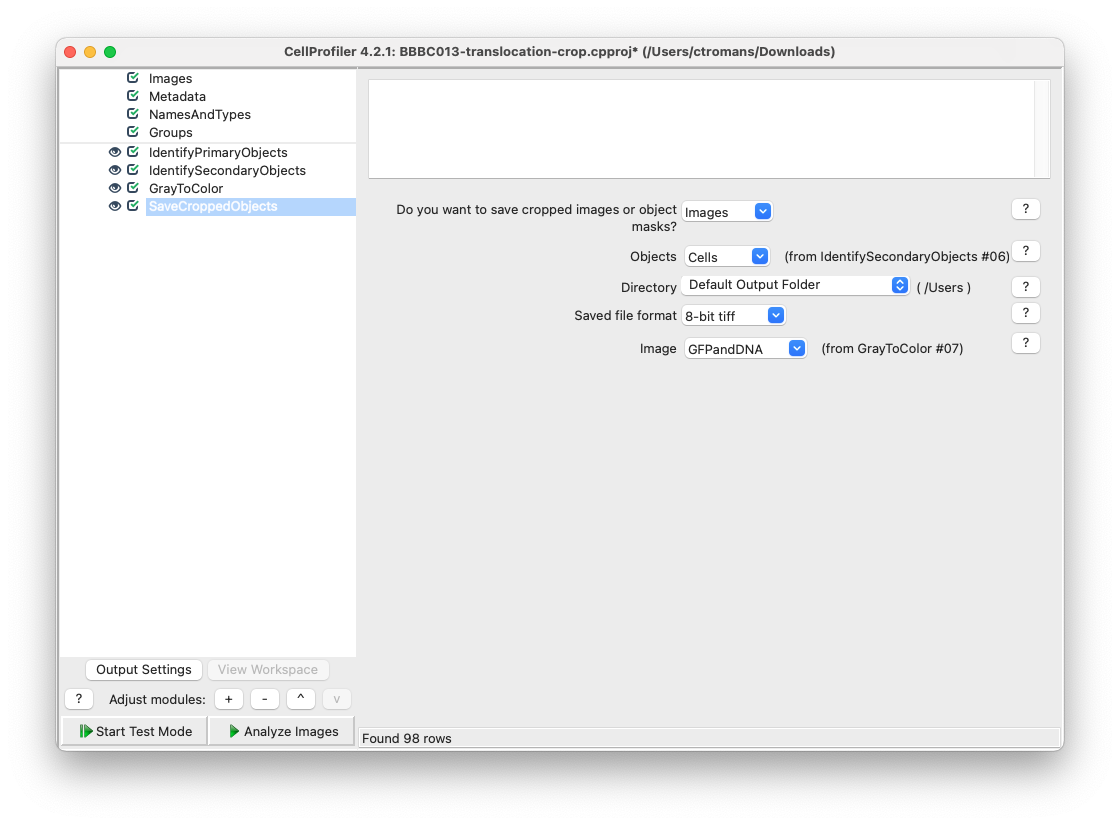
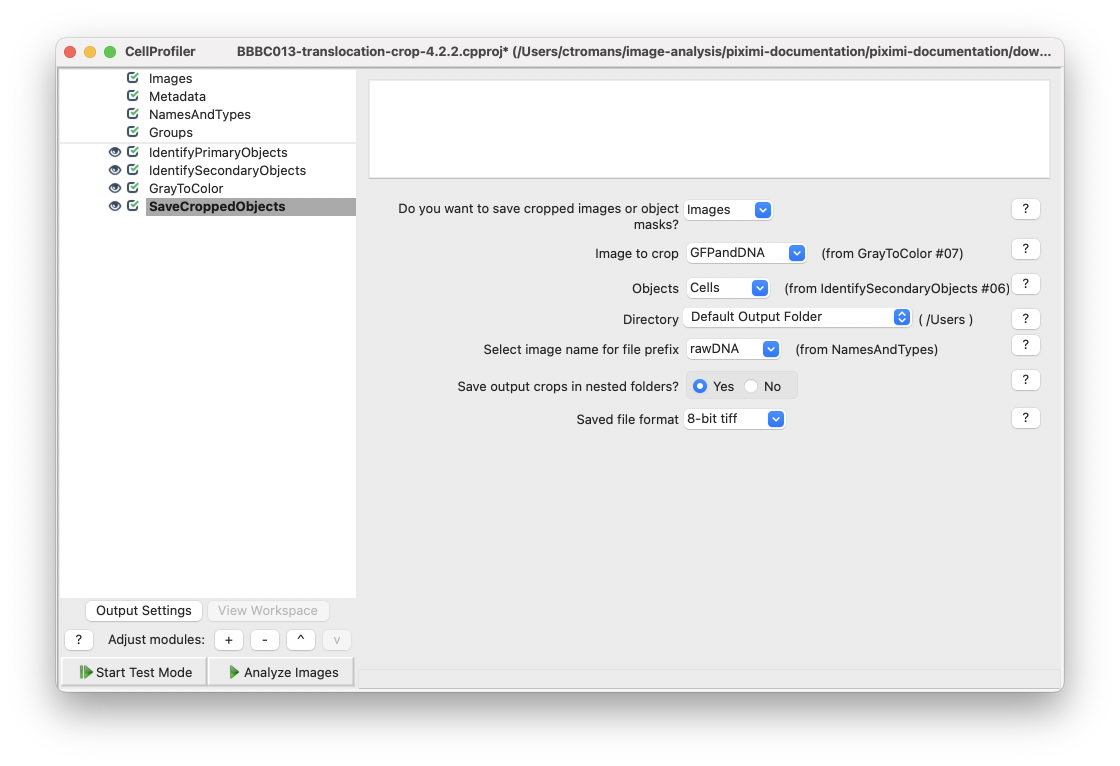
adding cellprofiler crops example to object guide

diff --git a/piximi-documentation/classify-example-eukaryotic-object.md b/piximi-documentation/classify-example-eukaryotic-object.md
@@ -4,8 +4,8 @@ Currently, Piximi can only classify entire images. We are working on adding deep
 
 While we work on adding segmentation, it's currently possible to use CellProfiler to segment individual cells and create single cell cropped images. These images of individual cells can be then be opened in Piximi and then categorized.
 
-The following example will demonstrate how the image crops for the Piximi `U2OS Cell Crops` example project were made using CellProfiler. The images we will use to recreate this dataset are from the [BBBC013 cytoplasm-nucleus translocation dataset](https://bbbc.broadinstitute.org/BBBC013) from the Broad Bioimage Benchmark Collection. Within this dataset, a cytoplasmic GFP signal is considered as positive and a nuclear GFP signal as negative. The CellProfiler pipeline used in the following example can be {download}`downloaded here <downloads/BBBC013-translocation-crop.cppipe.zip>`, but this guide will walk you through how to create the pipeline from scratch. 
-
+The following example will demonstrate how the image crops for the Piximi `U2OS Cell Crops` example project were made using CellProfiler. The images we will use to recreate this dataset are from the [BBBC013 cytoplasm-nucleus translocation dataset](https://bbbc.broadinstitute.org/BBBC013) from the Broad Bioimage Benchmark Collection. Within this dataset, a cytoplasmic GFP signal is considered as positive and a nuclear GFP signal as negative. The CellProfiler pipeline used in the following example can be {download}`downloaded here <downloads/BBBC013-translocation-crop-4.2.2.cppipe.zip>` for CellProfiler version **4.2.2**. For CellProfiler **4.2.1** or earlier, {download}`download this pipeline <downloads/BBBC013-translocation-crop-4.2.1.cppipe.zip>`. Alternatively, follow this guide to learn how to create this pipeline from scratch.
+ 
 ## Create cell crops with CellProfiler
 
 For this example, we will create a CellProfiler pipeline that will first identify nuclei using the `IdentifyPrimaryObjects` module, followed by cell identification with the `IdentifySecondaryObjects` module. Following this, we will then create a multichannel RGB image with DNA colored blue and GFP colored green. Finally, these mulltichannel RGB images will be cropped based on the previously identified cell object using the `SaveCroppedObjects` module. 
@@ -67,18 +67,59 @@ Add a ColorToGray module and set the `rawGFP` as green and `rawDNA` as blue.
 
 ### 5. SaveCroppedObjects
 
-Next, add a `SaveCroppedObjects` module and select the `Cells` objects from `IdentifySecondaryObjects`. For the `Image` setting, select `GFPandDNA` created by the `ColorToGray` module. It is this image that will be cropped to individual `Cells` objects. Select an appropriate directory to save your cropped images. 
+Next, add a `SaveCroppedObjects` module and select the `Cells` objects from `IdentifySecondaryObjects`. For the `Image to crop` setting, select `GFPandDNA` created by the `ColorToGray` module. It is this image that will be cropped to individual `Cells` objects. Select an appropriate directory to save your cropped images. 
+
+
+```{admonition} Note
+:class: tip
+The below screenshot is from CellProfiler `4.2.2`, which includes additional features in the `SaveCroppedObjects` module. These features allow for crops to be saved with their original input filename and also provides the option to save these crops into nested folders. For versions of CellProfiler earlier than 4.2.2, please see the **Extra considerations if using CellProfiler 4.2.1 or earlier** section below on how to save cropped objects without these new features.
+```
+
+
+<!-- Note the extra backtick (`) for the outermost content block. This allows for nesting of content blocks. See more here: https://jupyterbook.org/en/stable/content/myst.html#markdown-nesting -->
+````{admonition} Extra considerations if using CellProfiler 4.2.1 or earlier
+:class: seealso, dropdown
+
+
+CellProfiler versions 4.2.1 and earlier can also be adjusted to save cropped images into subdirectories named after the input filename. This can be achieved by enabling metadata extraction and using the extracted filename in the subfolder output path in SaveCroppedObjects. Below are the changes to the above mentioned pipeline to achieve this result. The above pipeline that has been modified for CellProfiler 4.2.1 can be {download}`downloaded here <downloads/BBBC013-translocation-crop-4.2.1.cppipe.zip>`.
+
+**1. Enable metadata extraction**
+
+In the `Metadata` input module, select `Yes` on the `Extract Metadata` option. In the field marked `Regular expression to extract from file name` input the regular expression `\-(?P<FileName>.*)\.`. This will extract the information after the first `-` and before the last `.` from the image filenames in the `BBBC013` dataset.
+
+*Why extract metadata for this portion of the filename?* 
+For each image there are two individual filenames, representing either `channel1` or `channel2`. If you choose to extract the entire filename, `SaveCroppedObjects` will be unable to reconcile which filename to use and instead use `None`. By using the regular expression mentioned above, the extracted filename will be the same across the two channels.
+
+```{figure} ./img/user-guide-metadata-view-4.2.1.png
+---
+name: metadata-view-4.2.1
+---
+Use the regular expression `\-(?P<FileName>.*)\.` to extract an appropriate filename from the BBBC013 images.
+```
+
+**2. SaveCroppedObjects**
+
+Within `SaveCroppedObjects`, select `Default Output Folder sub-folder` and then **right-click** in the `sub-folder` text box and select `FileName`.
+
+```{figure} ./img/user-guide-save-cropped-objects-view-4.2.1.png
+---
+name: SaveCroppedObjects-view-4.2.1
+---
+
+Right click within the `Sub-folder` text box and select `FileName`, as defined in the Metadata module earlier.
+
+```
+
+````
+
+
 
 ```{figure} ./img/user-guide-save-cropped-objects-view.png
 ---
 name: SaveCroppedObjects-view
 ---
-Add a SaveCroppedObjects module and select your desired `Object` and the `Image` to crop.
+Add a SaveCroppedObjects module and select your desired `Object` and the `Image` to crop. In CellProfiler `4.2.2` you can select to save crops into nested folders with the input image filename.
 ```
-
-Finally, run the analysis within CellProfiler by pressing the `Analyze images` button in the bottom left of the main CellProfiler window. 
-
-
 ### 6. Next steps
 
 Now that you have cropped images of your cells, you can follow the [image classification guide](classify-example-eukaryotic-image.md) and adjust it to accommodate your image crops. The crops of the [BBBC013 dataset](https://bbbc.broadinstitute.org/BBBC013) represents a 3-class problem: `NuclearGFP`, `CytoplasmicGFP` and `NoGFP`. When categorizing your images into these distinct categories, explore how categorizing more images into each of these classes can impact training performance. 
